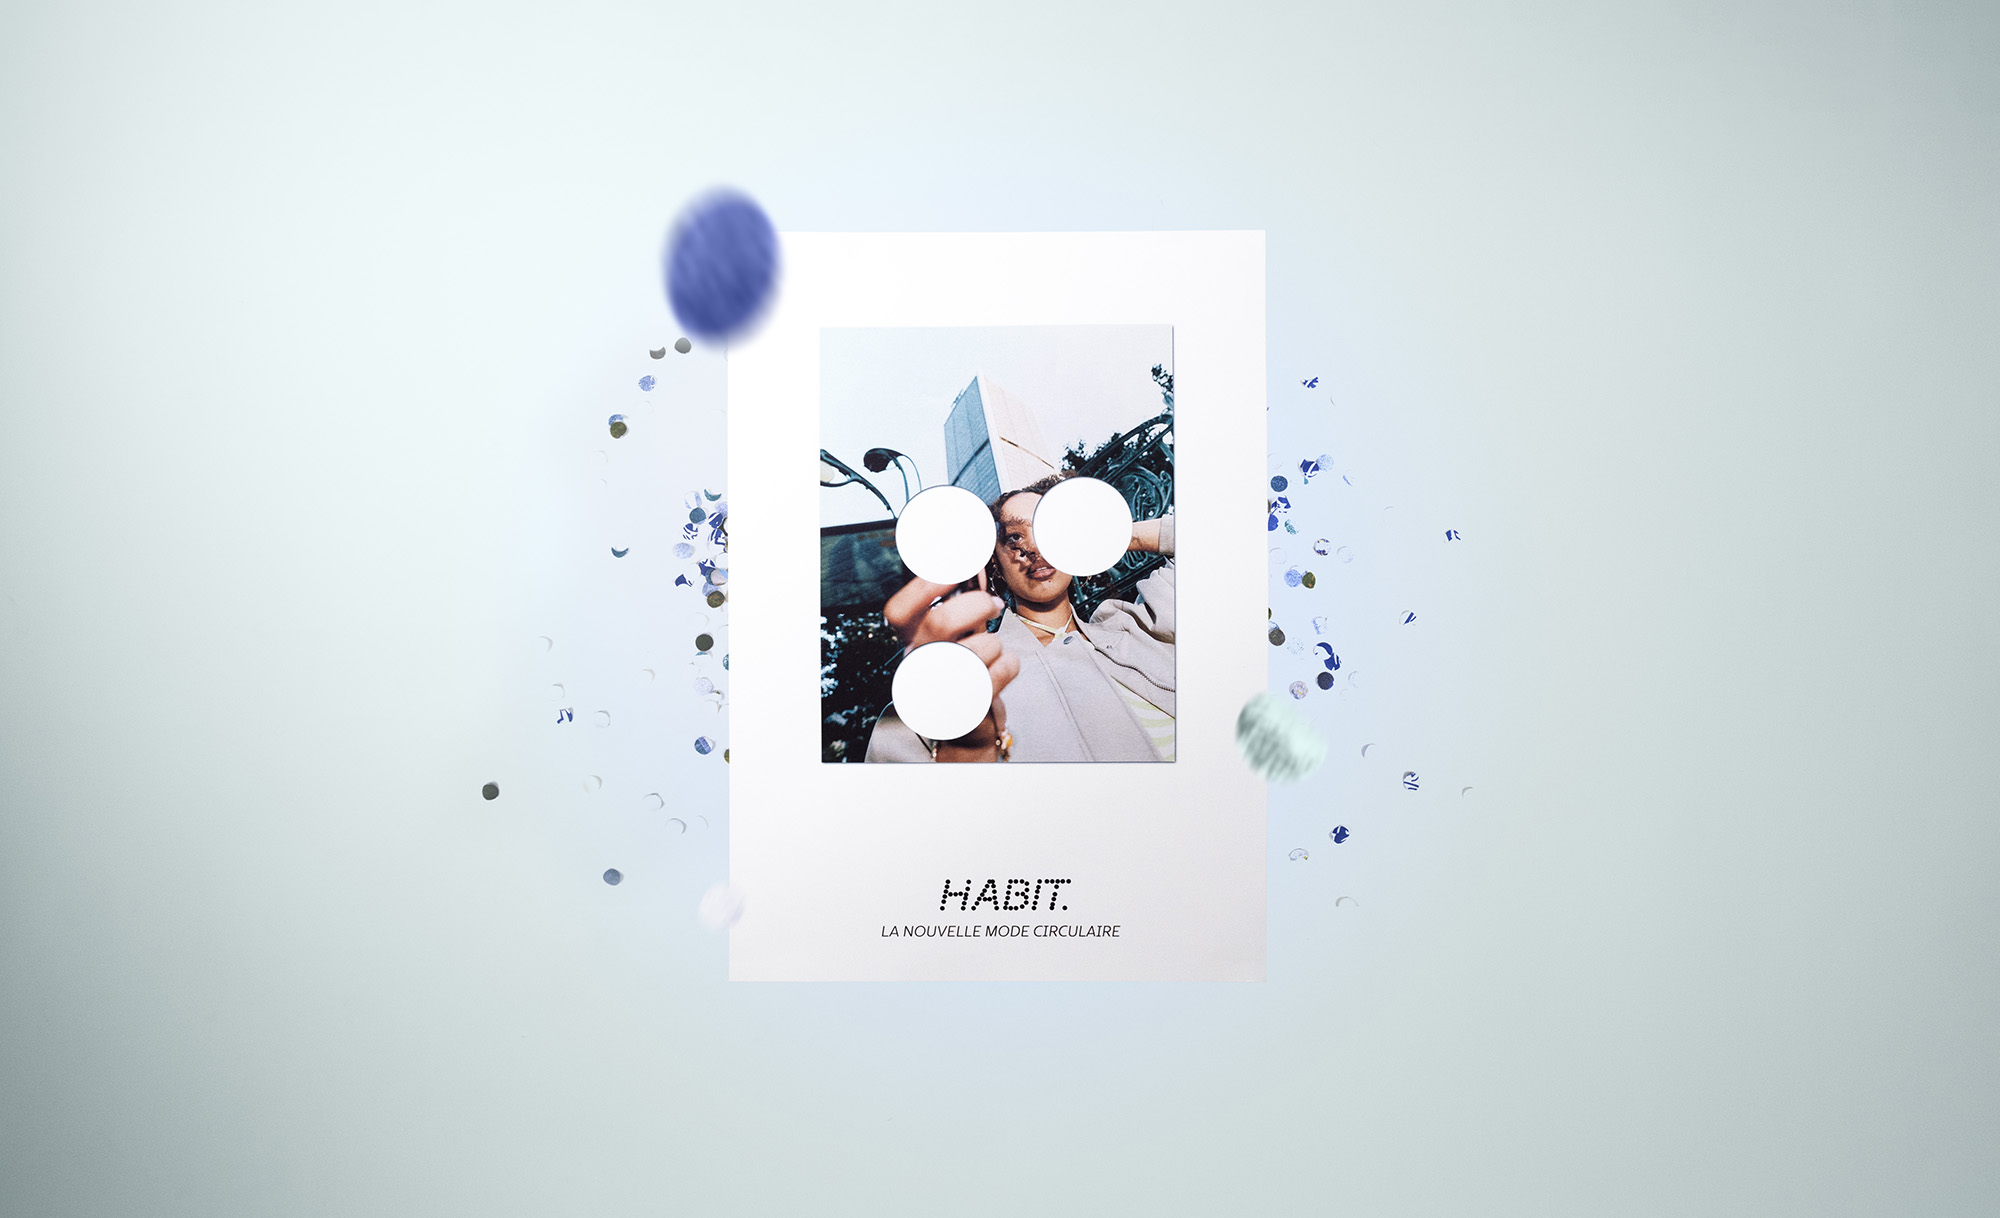
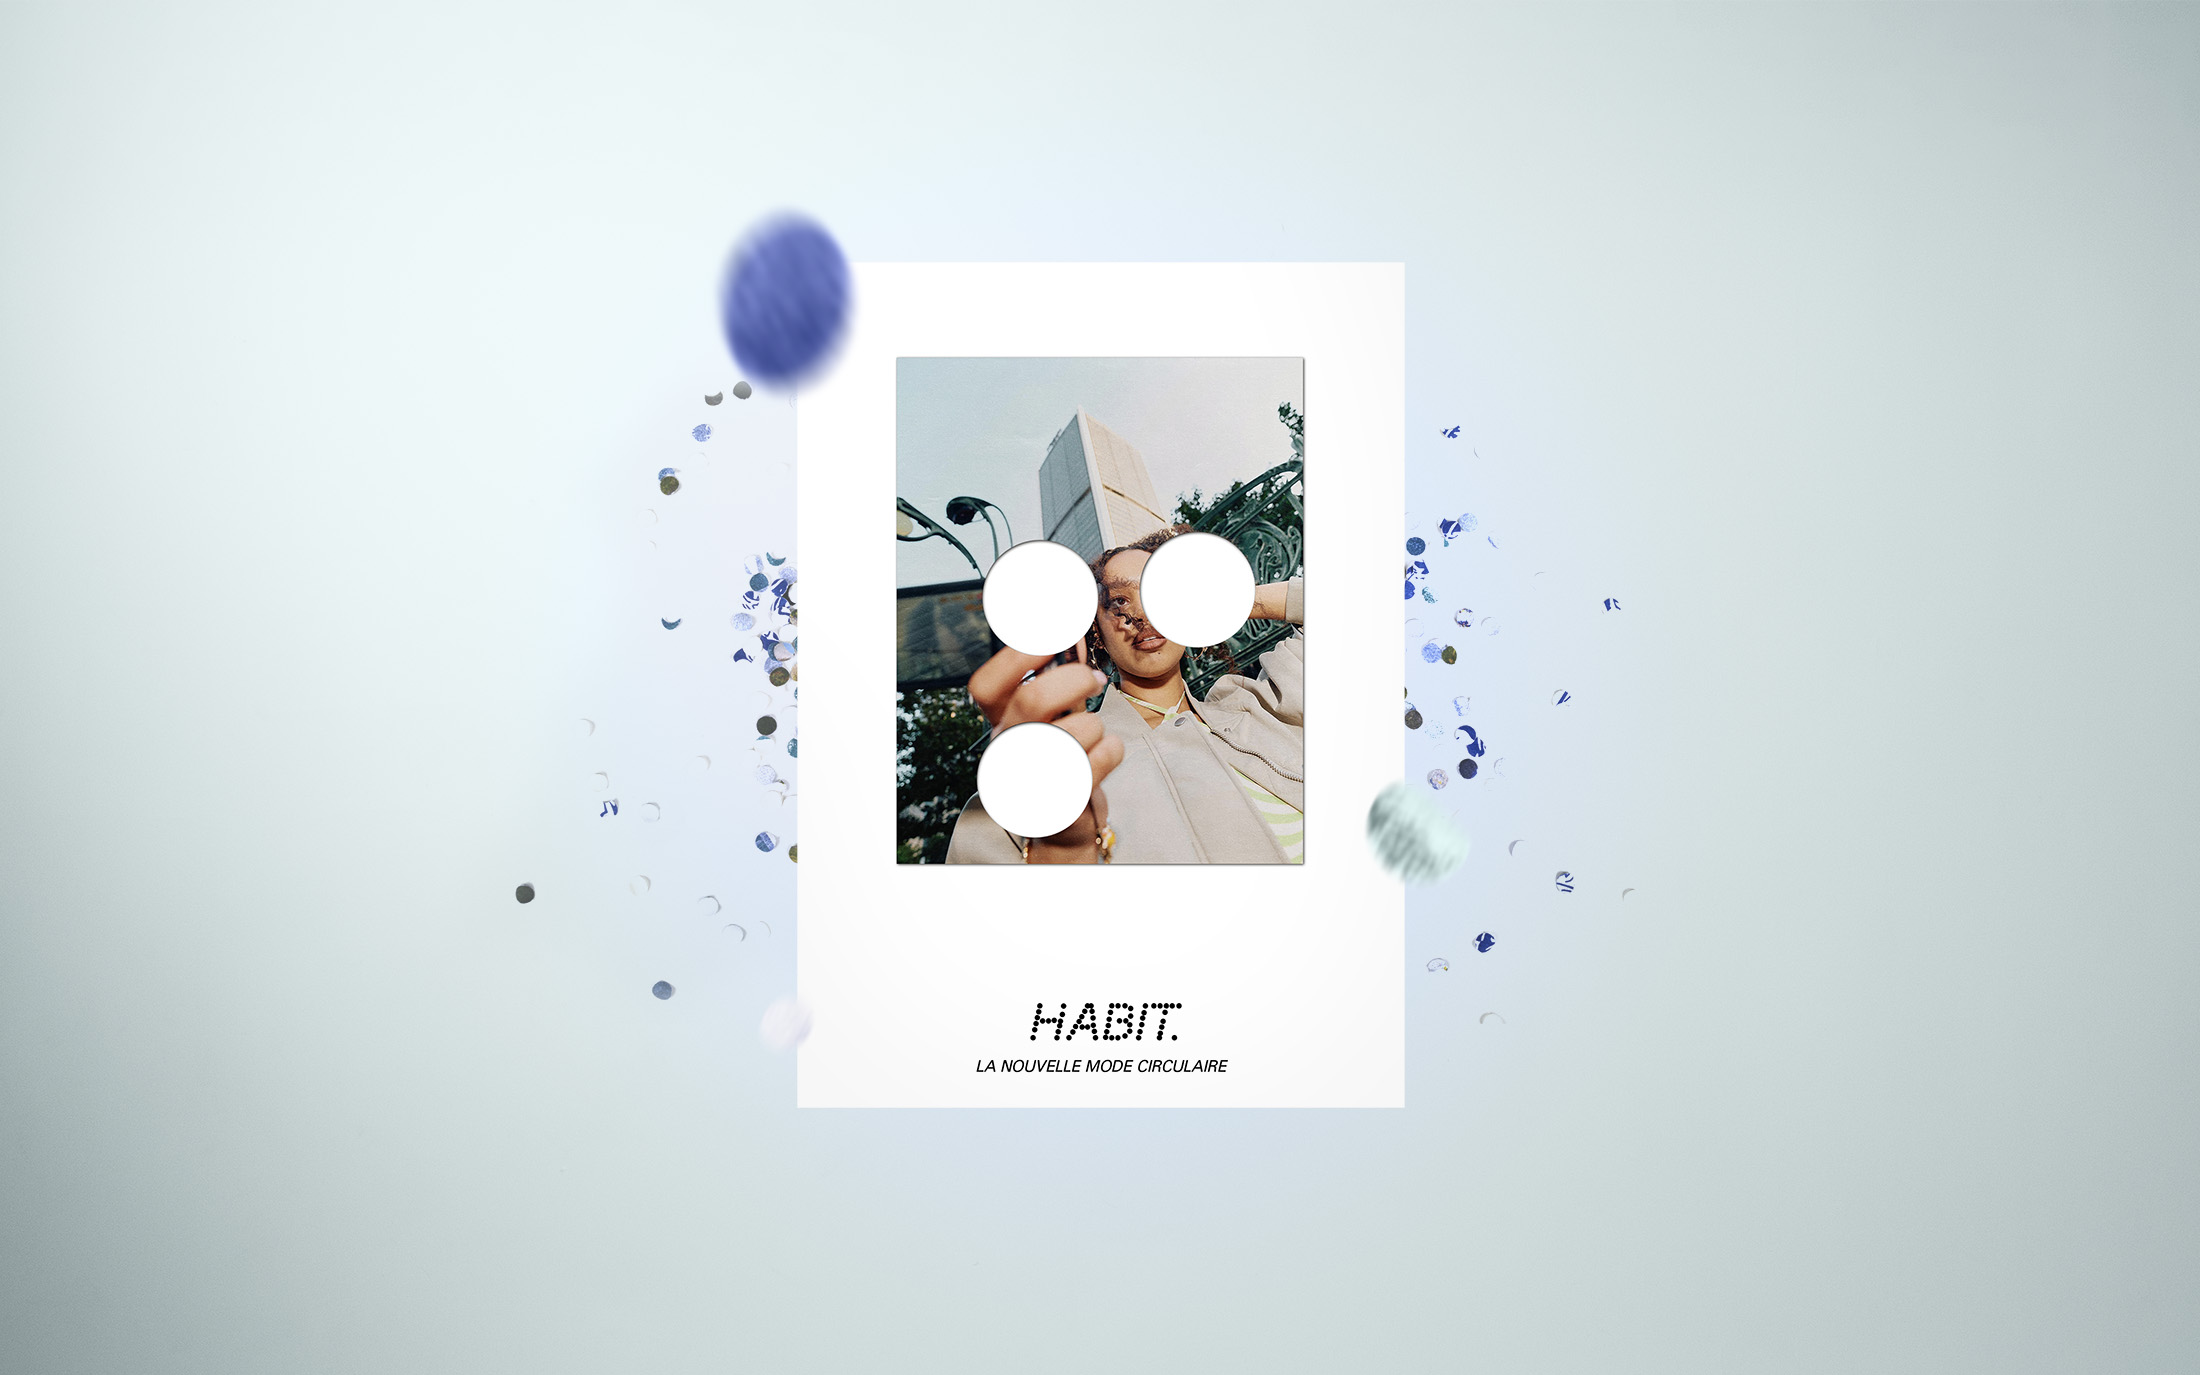
Color correction img habits

diff --git a/index.html b/index.html
@@ -88,7 +88,7 @@
                     <h3>LA NOUVELLE MODE CIRCULAIRE</h3>
                 </div>
                 <div class="aperçu">
-                    <img src="IMAGES/vignette/VIGNETTE_habit_1.jpg" alt="Affiche publicitaire">
+                    <img src="IMAGES/vignette/VIGNETTE-habit_1.jpg" alt="Affiche publicitaire">
                     <img src="IMAGES/vignette/VIGNETTE-habit_2.jpg" alt="Icône du logo">
                     <img src="IMAGES/vignette/VIGNETTE-habit_3.jpg" alt="Typographie HABIT">
                 </div>

diff --git a/script.js b/script.js
@@ -67,6 +67,7 @@ document.addEventListener("DOMContentLoaded", function () {
     });
 });
 
+
 function updateImagesForMobile() {
     if (window.innerWidth <= 768) {
         document.querySelector('.big-visual[src="IMAGES/Projets/habit/HABIT_font-specimen.jpg"]').src = "IMAGES/Projets/habit/HABIT_font-specimen-mobile.jpg";
